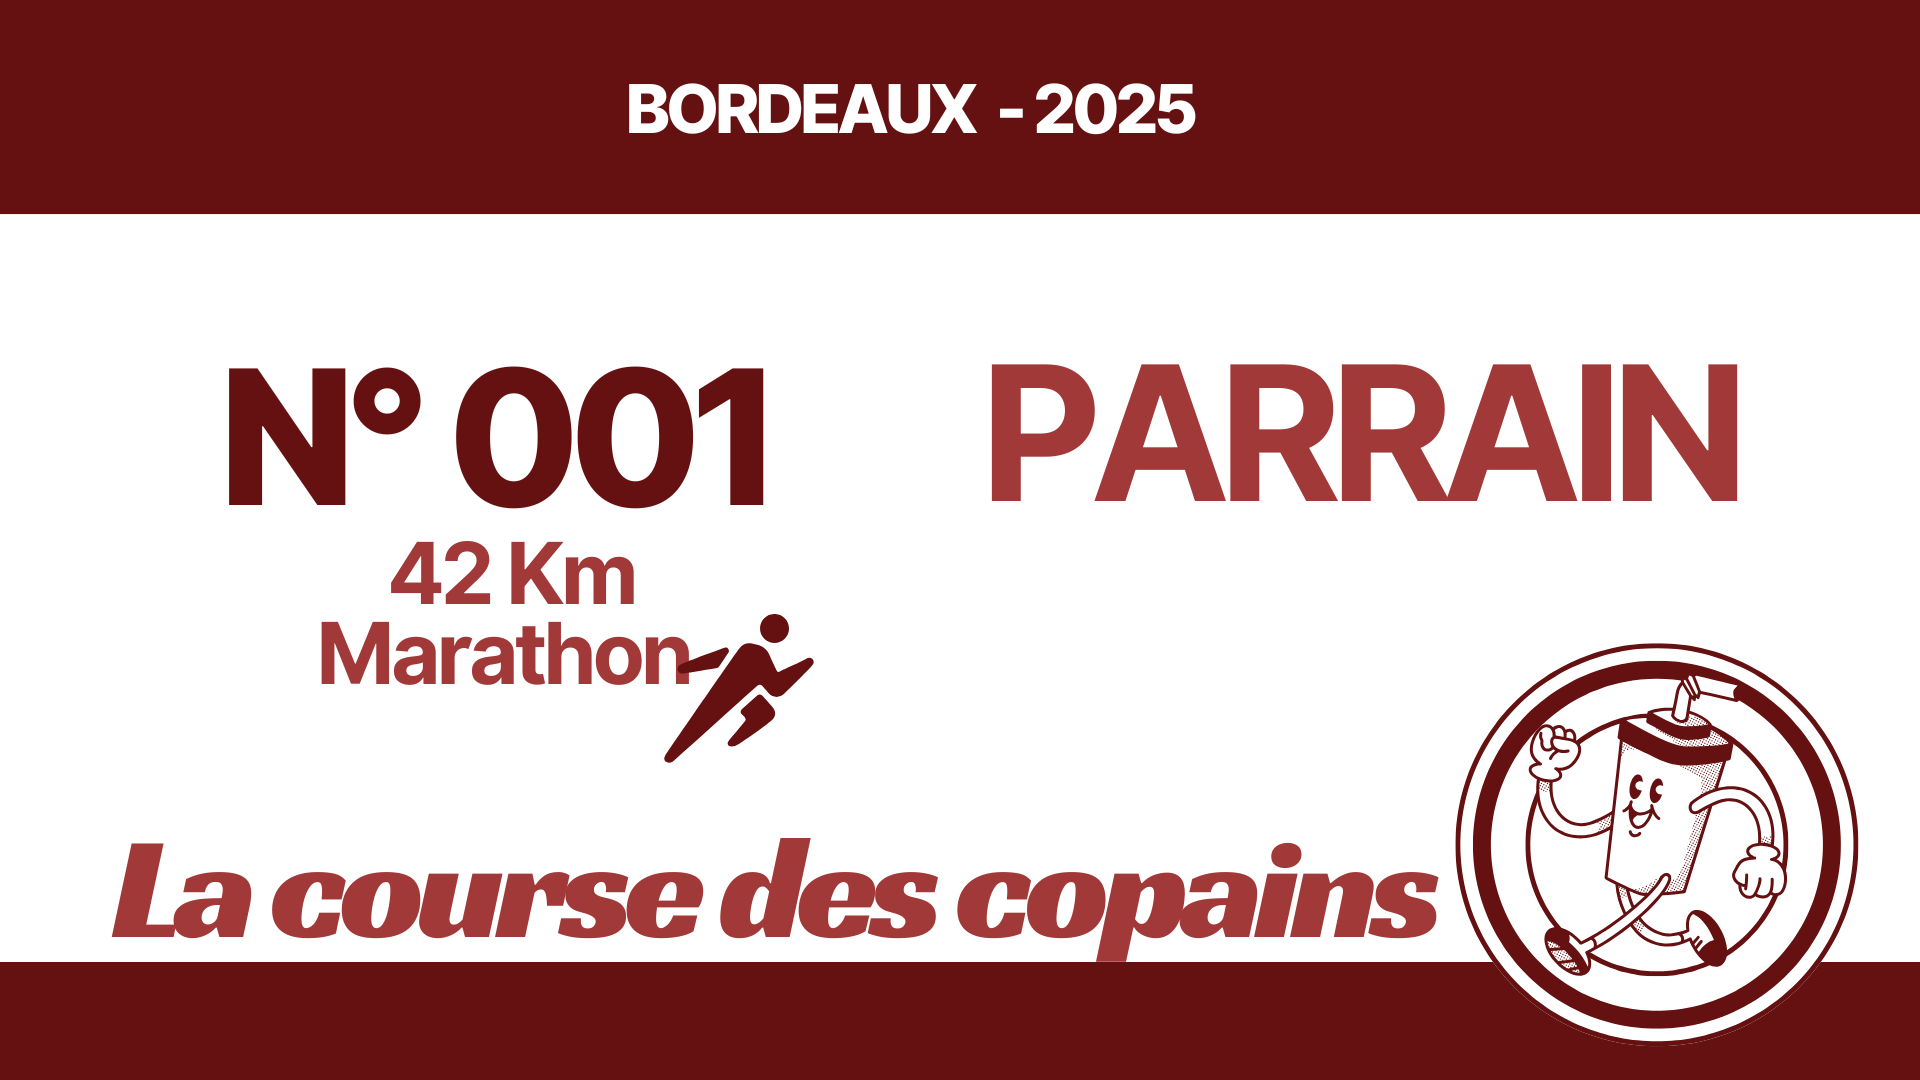
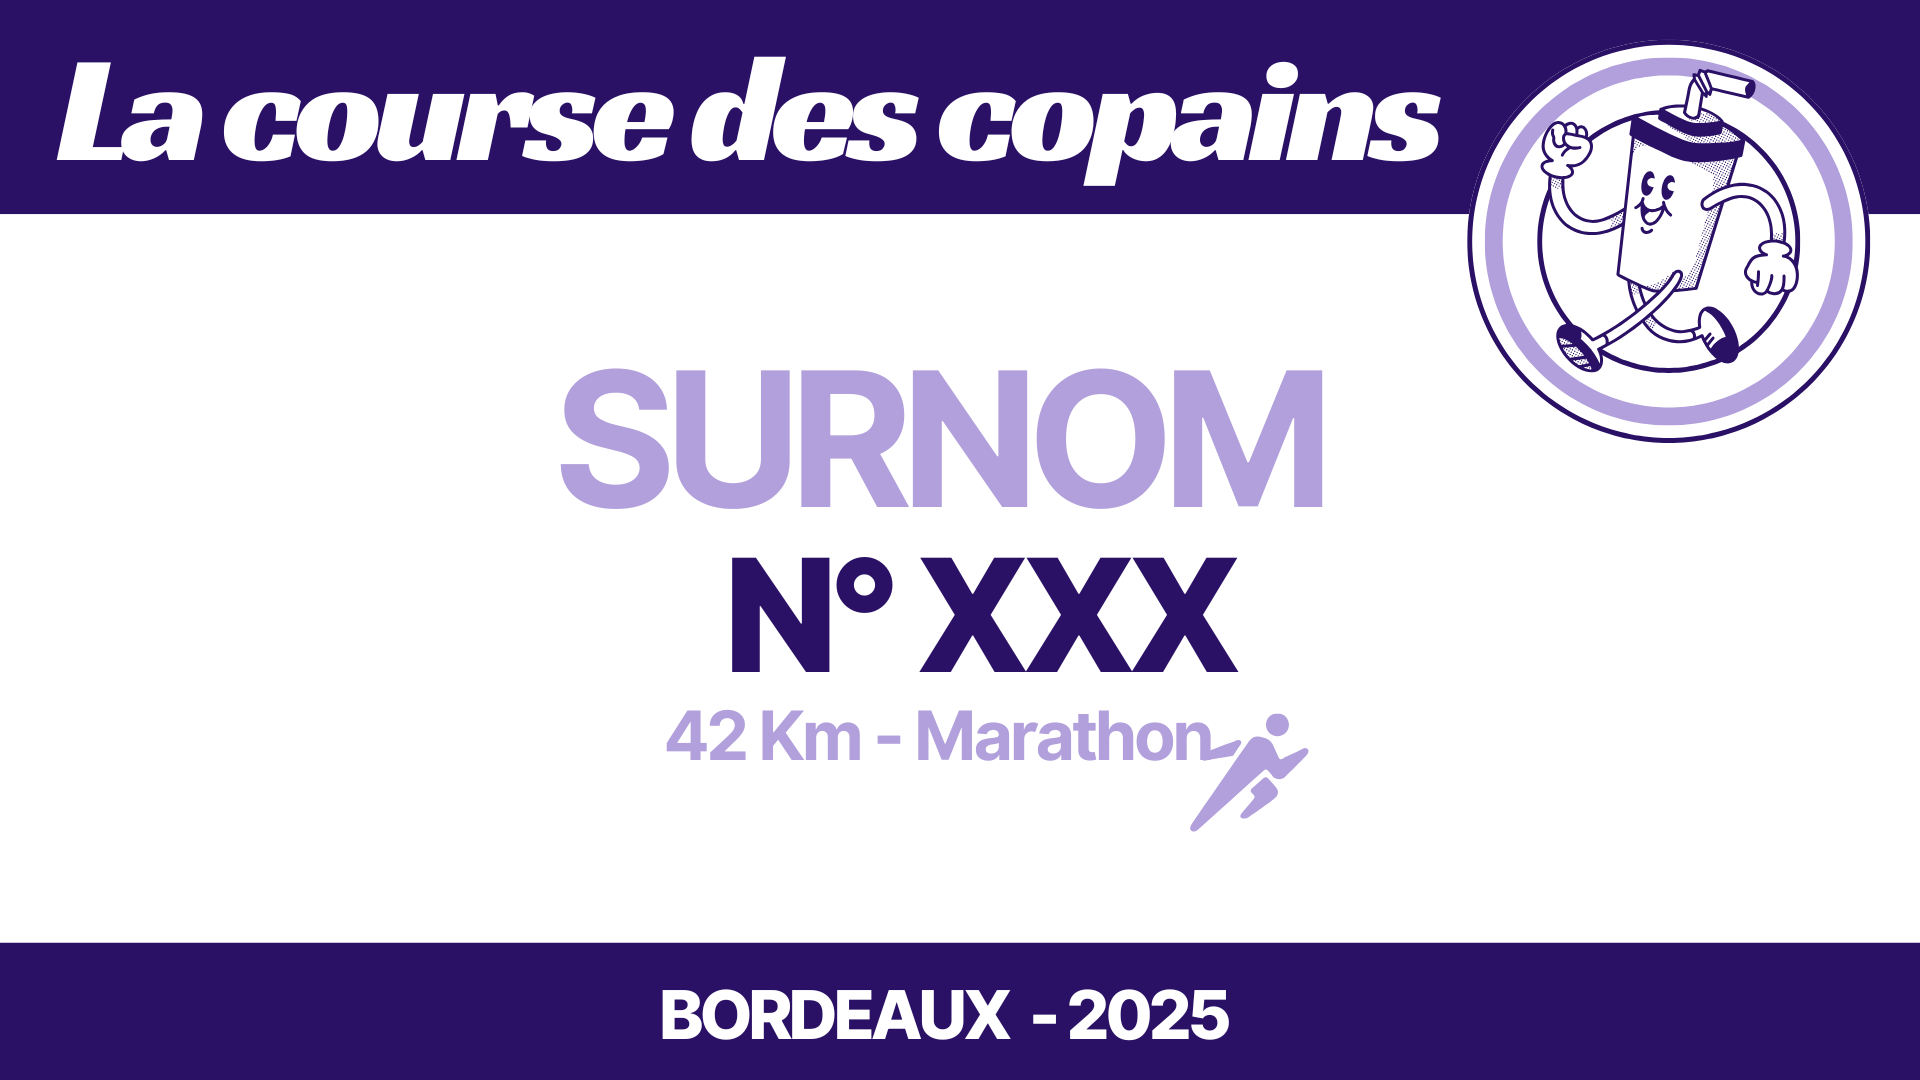
changement dossards

diff --git a/pages/inscription.html b/pages/inscription.html
@@ -66,6 +66,12 @@
               <li class="carousel-item" data-title="Dossard 4" data-sub="Design finalisé">
                 <img src="../assets/dossard4.png" alt="Dossard 4"/>
               </li>
+              <li class="carousel-item" data-title="Dossard 5" data-sub="Design finalisé">
+                <img src="../assets/dossard5.png" alt="Dossard 5"/>
+              </li>
+              <li class="carousel-item" data-title="Dossard 6" data-sub="Design finalisé">
+                <img src="../assets/dossard6.png" alt="Dossard 6"/>
+              </li>
             </ul>
           </div>
 
@@ -75,7 +81,7 @@
             <div class="carousel-counter">
               <span class="counter-current">01</span>
               <span class="counter-separator">/</span>
-              <span class="counter-total">04</span>
+              <span class="counter-total">06</span>
             </div>
           </div>
 
